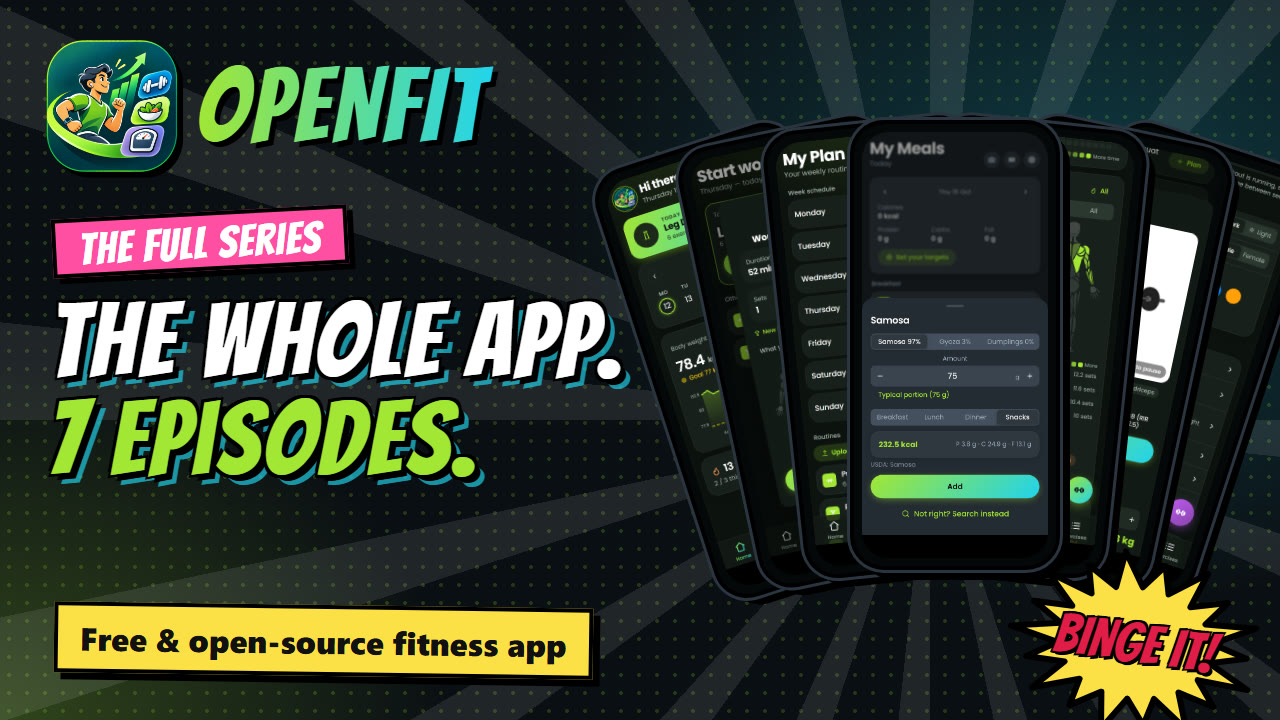
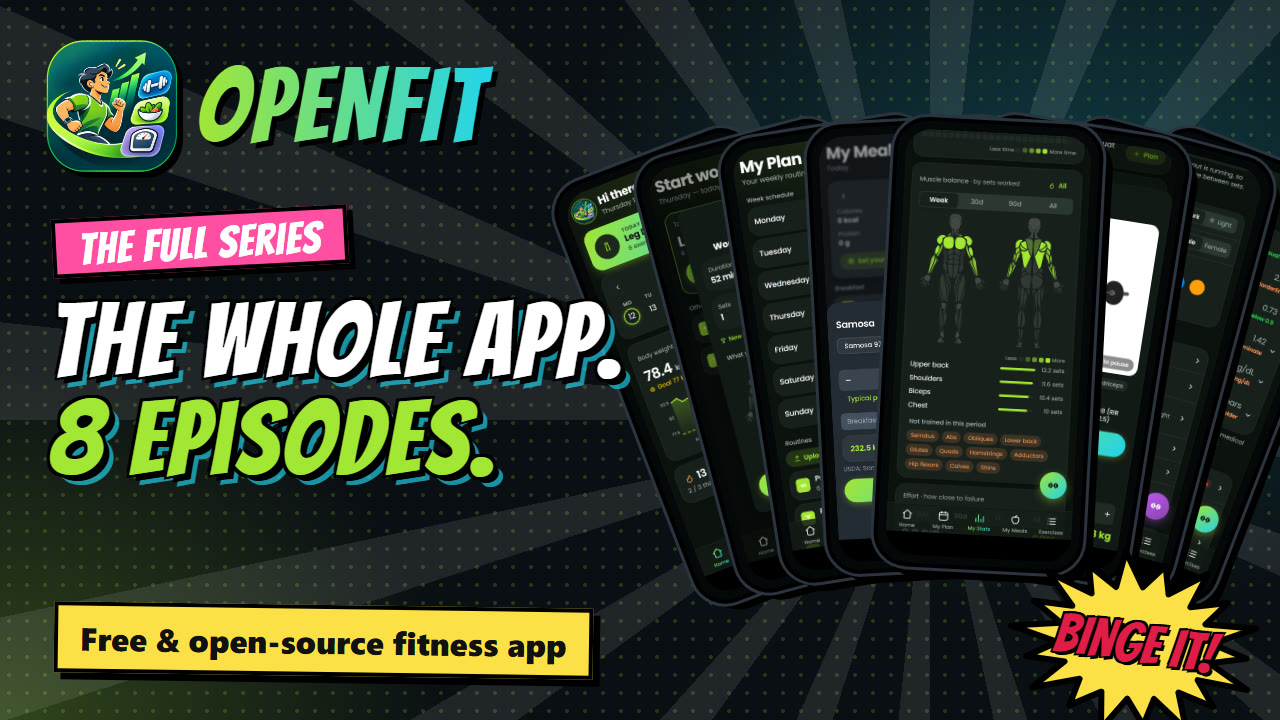
docs: video tour lists the trailer and Episode 8 (Blood tests)
Badge and intro now say 8 episodes, the episode list links the trailer
and Episode 8 inside the playlist, and the video-tour card shows 8
episodes with the Blood tests screen added to the fan.

Changed region(s): [[0.4375, 0.1528, 1.0, 0.8556], [0.0312, 0.55, 0.4062, 0.6722]]

diff --git a/README.md b/README.md
@@ -14,7 +14,7 @@ Plan routines, run guided workouts with automatic progressive overload, log meal
 ![Self-hosted](https://img.shields.io/badge/self--hosted-docker-22d3ee?style=flat-square&logo=docker&logoColor=white)
 
 [![Download APK](https://img.shields.io/badge/Download-Android%20APK-3ddc84?style=for-the-badge&logo=android&logoColor=white)](https://github.com/rupal2k/openfit/releases/latest/download/app-release.apk)
-[![Watch the video tour](https://img.shields.io/badge/Watch-7--episode%20tour-ff0000?style=for-the-badge&logo=youtube&logoColor=white)](https://www.youtube.com/playlist?list=PLIlQz5UNxQ1c)
+[![Watch the video tour](https://img.shields.io/badge/Watch-8--episode%20tour-ff0000?style=for-the-badge&logo=youtube&logoColor=white)](https://www.youtube.com/playlist?list=PLIlQz5UNxQ1c)
 
 <br>
 
@@ -26,11 +26,11 @@ Plan routines, run guided workouts with automatic progressive overload, log meal
 
 ## Video tour
 
-Seven short comic-style episodes, one per module, about a minute and a half each.
+A short trailer and eight comic-style episodes, one per module, about a minute and a half each.
 
-<a href="https://www.youtube.com/playlist?list=PLIlQz5UNxQ1c"><img src="assets/video-tour.jpg" alt="OPENFIT video tour: the whole app in 7 episodes" width="640"></a>
+<a href="https://www.youtube.com/playlist?list=PLIlQz5UNxQ1c"><img src="assets/video-tour.jpg" alt="OPENFIT video tour: the whole app in 8 episodes" width="640"></a>
 
-[1. Today](https://www.youtube.com/watch?v=hB6LLFcCpPI&list=PLIlQz5UNxQ1c) · [2. Guided workouts](https://www.youtube.com/watch?v=LpxnzEjcCTc&list=PLIlQz5UNxQ1c) · [3. My Plan](https://www.youtube.com/watch?v=-yHLYWLfpzE&list=PLIlQz5UNxQ1c) · [4. My Meals](https://www.youtube.com/watch?v=w5pAtuHNU38&list=PLIlQz5UNxQ1c) · [5. My Stats](https://www.youtube.com/watch?v=JdfB-Oq2mR8&list=PLIlQz5UNxQ1c) · [6. Exercise library](https://www.youtube.com/watch?v=1WvinN-iHXM&list=PLIlQz5UNxQ1c) · [7. Settings & backups](https://www.youtube.com/watch?v=ZjggkLvZ_64&list=PLIlQz5UNxQ1c)
+[Trailer](https://www.youtube.com/watch?v=8bsf6MMnFoA&list=PLIlQz5UNxQ1c) · [1. Today](https://www.youtube.com/watch?v=hB6LLFcCpPI&list=PLIlQz5UNxQ1c) · [2. Guided workouts](https://www.youtube.com/watch?v=LpxnzEjcCTc&list=PLIlQz5UNxQ1c) · [3. My Plan](https://www.youtube.com/watch?v=-yHLYWLfpzE&list=PLIlQz5UNxQ1c) · [4. My Meals](https://www.youtube.com/watch?v=w5pAtuHNU38&list=PLIlQz5UNxQ1c) · [5. My Stats](https://www.youtube.com/watch?v=JdfB-Oq2mR8&list=PLIlQz5UNxQ1c) · [6. Exercise library](https://www.youtube.com/watch?v=1WvinN-iHXM&list=PLIlQz5UNxQ1c) · [7. Settings & backups](https://www.youtube.com/watch?v=ZjggkLvZ_64&list=PLIlQz5UNxQ1c) · [8. Blood tests](https://www.youtube.com/watch?v=fM3kZanQOA8&list=PLIlQz5UNxQ1c)
 
 ## Why OPENFIT
 
